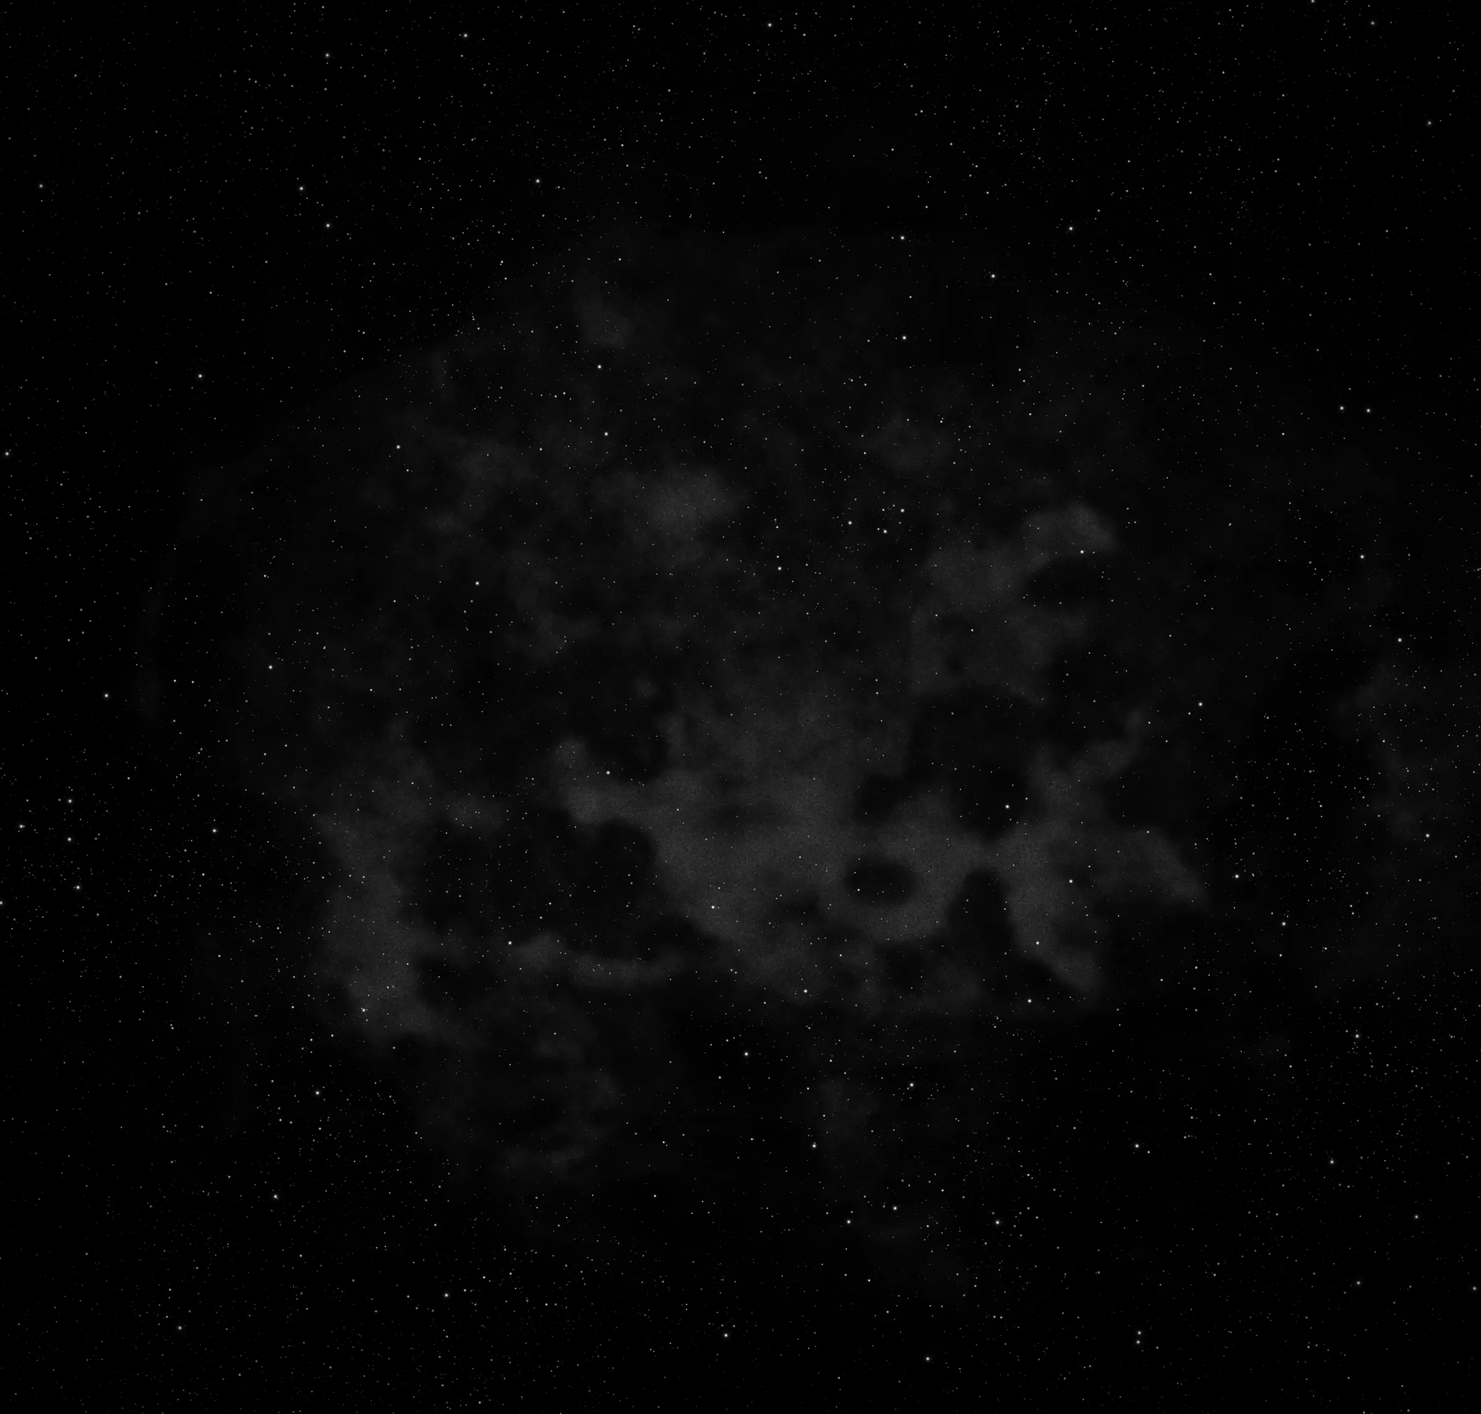
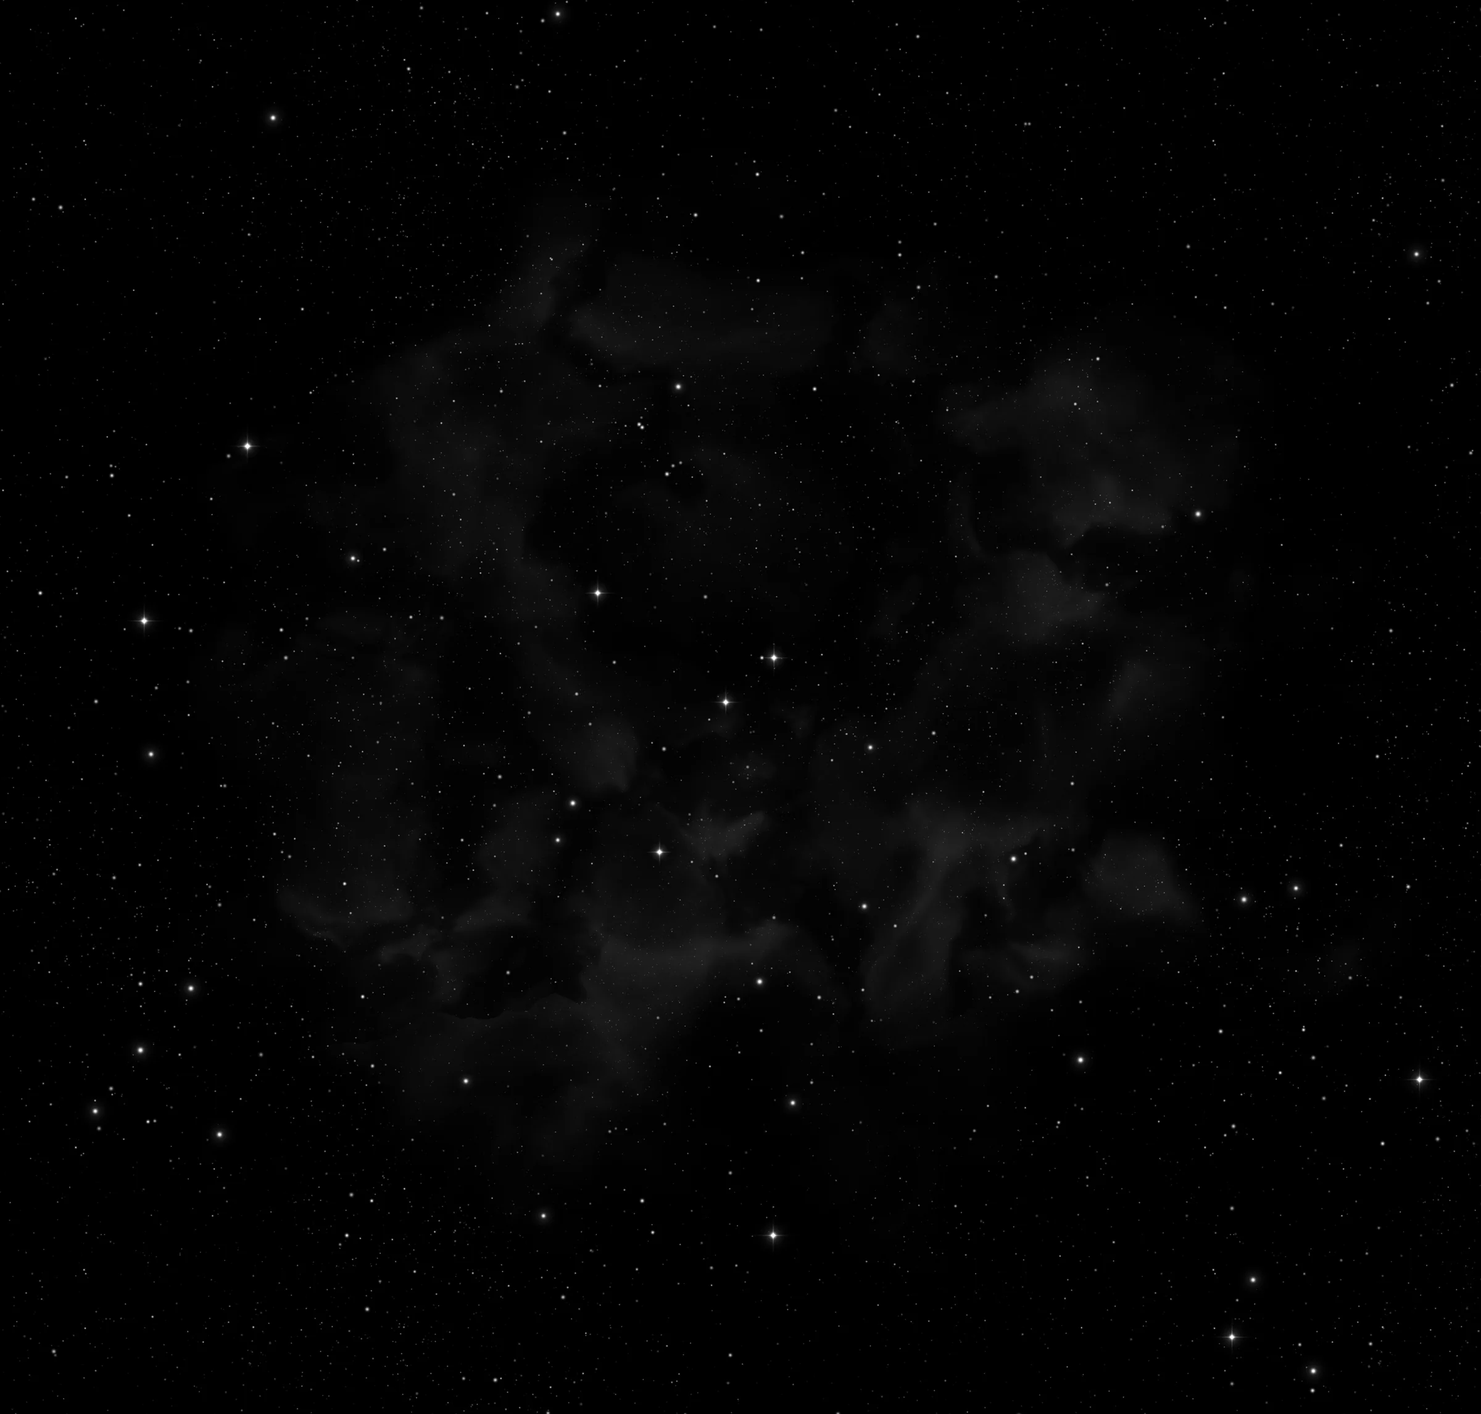
Inner pages: the space in three depths, nebula and stars redrawn (#151)
Owner's requests, 13 Nov 2026. The space behind inner pages is three pictures (nebula, far stars, near stars) that slide a little against each other with the pointer and the scroll; the nebula and stars are redrawn finer and fainter. Reduced motion and no JavaScript keep the still picture. The homepage is not touched.

diff --git a/assets/site.js b/assets/site.js
@@ -944,3 +944,52 @@
     });
   }
 })();
+
+/* The space behind inner pages, in three depths (owner, 13 Nov 2026): the cloud far off, then
+   two fields of stars. They slide a little against each other with the pointer and as the
+   page scrolls, so the ground has depth. Not under reduced motion: theme.css then keeps the
+   still picture. */
+(function () {
+  if (!window.matchMedia || window.matchMedia("(prefers-reduced-motion: reduce)").matches) return;
+  if (!document.body || !window.requestAnimationFrame) return;
+  var box = document.createElement("div");
+  box.className = "space";
+  box.setAttribute("aria-hidden", "true");
+  box.innerHTML = '<i class="space__cloud"></i><i class="space__far"></i><i class="space__near"></i>';
+  document.body.insertBefore(box, document.body.firstChild);
+  document.documentElement.classList.add("has-space");
+  var cloud = box.children[0], far = box.children[1], near = box.children[2];
+  var px = 0, py = 0, tx = 0, ty = 0, queued = false;
+
+  function tileOf(el, name) {
+    return parseFloat(getComputedStyle(box).getPropertyValue(name)) || 1000;
+  }
+  var tFar = tileOf(far, "--t-far"), tNear = tileOf(near, "--t-near");
+
+  function wrap(v, t) { return ((v % t) + t) % t; }
+
+  function draw() {
+    queued = false;
+    px += (tx - px) * 0.06;
+    py += (ty - py) * 0.06;
+    var sy = window.scrollY || 0;
+    cloud.style.transform = "translate3d(" + (-px * 12).toFixed(2) + "px," + (-py * 10 - Math.min(sy * 0.02, 40)).toFixed(2) + "px,0)";
+    far.style.transform = "translate3d(" + (-px * 24).toFixed(2) + "px," + wrap(-py * 18 - sy * 0.05, tFar).toFixed(2) + "px,0)";
+    near.style.transform = "translate3d(" + (-px * 46).toFixed(2) + "px," + wrap(-py * 34 - sy * 0.11, tNear).toFixed(2) + "px,0)";
+    if (Math.abs(tx - px) > 0.001 || Math.abs(ty - py) > 0.001) ask();
+  }
+  function ask() {
+    if (!queued) { queued = true; requestAnimationFrame(draw); }
+  }
+  window.addEventListener("pointermove", function (e) {
+    if (e.pointerType === "touch") return;
+    tx = e.clientX / window.innerWidth * 2 - 1;
+    ty = e.clientY / window.innerHeight * 2 - 1;
+    ask();
+  }, { passive: true });
+  window.addEventListener("scroll", ask, { passive: true });
+  window.addEventListener("resize", function () {
+    tFar = tileOf(far, "--t-far"); tNear = tileOf(near, "--t-near"); ask();
+  });
+  draw();
+})();

diff --git a/assets/theme.css b/assets/theme.css
@@ -16,6 +16,16 @@ body{font-weight:350;letter-spacing:.003em}
 /* every inner page stands in space: black, faint grey cloud and fine stars, still
    (owner, 13 Nov 2026; drawn by tools/make_space.py). Not on the homepage. */
 body::before{content:"";position:fixed;inset:0;pointer-events:none;z-index:-1;background:#000 url("space.webp") center/cover no-repeat}
+/* with JavaScript and motion allowed, the same space in three depths (cloud, far stars, near
+   stars) that slide a little against each other with the pointer and the scroll (owner,
+   13 Nov 2026; assets/site.js). The still picture above is what is left otherwise. */
+.space{position:fixed;inset:0;z-index:-1;overflow:hidden;pointer-events:none;background:#000;--t-far:1100px;--t-near:1500px}
+.space i{position:absolute;display:block;will-change:transform;backface-visibility:hidden}
+.space__cloud{inset:-56px;background:url("space-cloud.webp") center/cover no-repeat}
+.space__far{left:-56px;right:-56px;top:calc(-1*var(--t-far));height:calc(100% + var(--t-far));background:url("space-stars-far.webp") 0 0/var(--t-far) var(--t-far) repeat}
+.space__near{left:-56px;right:-56px;top:calc(-1*var(--t-near));height:calc(100% + var(--t-near));background:url("space-stars-near.webp") 0 0/var(--t-near) var(--t-near) repeat}
+@media (max-width:760px){.space{--t-far:720px;--t-near:980px}}
+html.has-space body::before{display:none}
 h1,h2,h3,h4{font-weight:300}
 .page__title,.report__title,.section-title{font-weight:300!important;letter-spacing:-.038em!important}
 .page__body h2,.page h2{font-weight:400;letter-spacing:-.02em}

diff --git a/tools/make_space.py b/tools/make_space.py
@@ -1,10 +1,14 @@
-"""Draws assets/space.webp, the ground of every inner page: black space with a grey cloud
-and fine stars (owner's request, 13 Nov 2026).
+"""Draws the space behind every inner page (owner's requests, 13 Nov 2026): a grey nebula
+and stars on black, in three depths that assets/site.js slides against each other.
 
-The cloud's shapes come from tools/space_cloud.png, a small map of the cloud in the owner's
-reference (brightness times four). This script enlarges it, gives it back the edges and
-fine structure the small map cannot hold, and scatters the stars. Run by hand; the result
-is committed.
+    assets/space-cloud.webp        the nebula, far off (with the faintest star dust in it)
+    assets/space-stars-far.webp    far stars, a clear square that repeats without a seam
+    assets/space-stars-near.webp   near stars, the same, with the few bright ones
+    assets/space.webp              the three together, still: reduced motion and no JavaScript
+
+The nebula's broad shape comes from tools/space_cloud.png, a small map of the cloud in the
+owner's reference (brightness times four); everything finer is drawn here. Run by hand; the
+results are committed.
 
     python3 tools/make_space.py
 """
@@ -14,21 +18,28 @@ import numpy as np
 from PIL import Image, ImageFilter
 
 HERE = Path(__file__).resolve().parent
-OUT = HERE.parent / "assets" / "space.webp"
+ASSETS = HERE.parent / "assets"
 W, H = 2400, 2292
+T = 2048
 rng = np.random.default_rng(20261113)
 
 
-def noise(cell, octaves=4, fall=0.55):
-    total = np.zeros((H, W), np.float32)
-    amp, norm = 1.0, 0.0
+def lattice(w, h, cell, periodic=False):
+    gw, gh = max(2, round(w / cell)), max(2, round(h / cell))
+    g = rng.random((gh, gw)).astype(np.float32)
+    if periodic:
+        big = Image.fromarray((np.tile(g, (3, 3)) * 255).astype(np.uint8)).resize((w * 3, h * 3), Image.BICUBIC)
+        return np.asarray(big.crop((w, h, w * 2, h * 2)), np.float32) / 255
+    return np.asarray(Image.fromarray((g * 255).astype(np.uint8)).resize((w, h), Image.BICUBIC), np.float32) / 255
+
+
+def fbm(w, h, cell, octaves=6, fall=0.52, periodic=False):
+    total, amp, norm = np.zeros((h, w), np.float32), 1.0, 0.0
     for _ in range(octaves):
-        gw, gh = max(2, W // cell + 2), max(2, H // cell + 2)
-        grid = Image.fromarray((rng.random((gh, gw)) * 255).astype(np.uint8))
-        total += np.asarray(grid.resize((W, H), Image.BICUBIC), np.float32) / 255 * amp
+        total += lattice(w, h, cell, periodic) * amp
         norm += amp
         amp *= fall
-        cell = max(2, cell // 2)
+        cell = max(3, cell / 2)
     return total / norm
 
 
@@ -37,60 +48,129 @@ def smooth(x, lo, hi):
     return t * t * (3 - 2 * t)
 
 
-def blur(a, r):
-    return np.asarray(Image.fromarray(np.clip(a, 0, 255).astype(np.uint8)).filter(ImageFilter.GaussianBlur(r)), np.float32)
+def blur(a, r, scale=1.0):
+    im = Image.fromarray(np.clip(a * scale, 0, 255).astype(np.uint8)).filter(ImageFilter.GaussianBlur(r))
+    return np.asarray(im, np.float32) / scale
 
 
-# --- cloud -------------------------------------------------------------------------------
-src = Image.open(HERE / "space_cloud.png").convert("L").resize((W, H), Image.BICUBIC)
-sharp = blur(np.asarray(src, np.float32), 3)
-soft = blur(sharp, 60)
-# towards the edges the map is only the rim of the cloud: let it dissolve there
+def sample(a, x, y):
+    """`a` read at the (fractional) places x, y; black outside."""
+    h, w = a.shape
+    x0, y0 = np.floor(x).astype(np.int32), np.floor(y).astype(np.int32)
+    fx, fy = x - x0, y - y0
+    out = np.zeros_like(x, dtype=np.float32)
+    for dy, wy in ((0, 1 - fy), (1, fy)):
+        for dx, wx in ((0, 1 - fx), (1, fx)):
+            xi, yi = x0 + dx, y0 + dy
+            ok = (xi >= 0) & (xi < w) & (yi >= 0) & (yi < h)
+            out += np.where(ok, a[np.clip(yi, 0, h - 1), np.clip(xi, 0, w - 1)], 0) * wx * wy
+    return out
+
+
+def save(name, img, alpha=None, quality=86):
+    p = ASSETS / name
+    g = Image.fromarray(np.clip(img, 0, 255).astype(np.uint8))
+    if alpha is None:
+        Image.merge("RGB", [g] * 3).save(p, "WEBP", quality=quality, method=6)
+    else:
+        a = Image.fromarray(np.clip(alpha, 0, 255).astype(np.uint8))
+        Image.merge("RGBA", [g, g, g, a]).save(p, "WEBP", quality=quality, alpha_quality=92, method=6, exact=True)
+    print(p.name, p.stat().st_size // 1024, "KB")
+
+
+# --- nebula ------------------------------------------------------------------------------
 yy, xx = np.mgrid[0:H, 0:W].astype(np.float32)
-rad = np.hypot((xx - W * 0.5) / (W * 0.5), (yy - H * 0.52) / (H * 0.5)) + (noise(300, 3) - 0.5) * 0.5
-edge = smooth(rad, 0.70, 1.05)
-cloud = (sharp * (1 - edge) + soft * edge * 0.8) / 4
+src = Image.open(HERE / "space_cloud.png").convert("L").resize((W, H), Image.BICUBIC)
+base = blur(np.asarray(src, np.float32), 9) / 4 / 26.0        # 0..1, the reference's masses
 
-# crisper holes: push the mid greys apart, then eat the edges with fine noise
-c = cloud / 27.0
-c = np.clip(c + (noise(34, 4) - 0.5) * 0.30 * smooth(c, 0.05, 0.5), 0, 1.2)
-c = 0.35 * c + 0.65 * smooth(c, 0.16, 0.74) * np.maximum(c, 0.35)
-# wisps inside the cloud, and a fine speckle (blurred, so it is powder and not static)
-c *= 0.78 + 0.44 * noise(90, 5)
-speck = blur(rng.random((H, W), dtype=np.float32) * 255, 0.7) / 255
-c *= 0.80 + 0.40 * (speck - 0.5) * 2.4 + 0.20
-img = c * 48.0
+# bend the masses so no edge is a smooth blob: one broad warp, one fine
+wx, wy = fbm(W, H, 520, 5) - 0.5, fbm(W, H, 520, 5) - 0.5
+vx, vy = fbm(W, H, 110, 4) - 0.5, fbm(W, H, 110, 4) - 0.5
+X, Y = xx + wx * 260 + vx * 70, yy + wy * 260 + vy * 70
+mass = sample(base, X, Y)
+# it dissolves towards the edges of the picture
+rad = np.hypot((xx - W * 0.5) / (W * 0.5), (yy - H * 0.52) / (H * 0.5)) + (fbm(W, H, 320, 3) - 0.5) * 0.6
+mass *= 1 - smooth(rad, 0.72, 1.12)
+
+# gas: fractal detail read through the same warp, so the wisps follow the masses
+detail = sample(fbm(W, H, 300, 7, 0.56), X, Y)
+ridge = 1 - np.abs(sample(fbm(W, H, 420, 6, 0.55), X + 400, Y + 250) * 2 - 1)   # bright filaments
+lanes = 1 - np.abs(sample(fbm(W, H, 360, 6, 0.55), X - 300, Y + 600) * 2 - 1)   # dark dust lanes
+gas = smooth(mass, 0.06, 0.90) * (0.30 + 1.25 * smooth(detail, 0.30, 0.78))
+gas *= 0.70 + 0.75 * ridge ** 3
+gas *= 1 - 0.80 * smooth(lanes, 0.80, 0.97)
+gas = np.clip(gas, 0, 1.6) ** 1.25
+# light spreads a little inside the gas
+gas = 0.80 * gas + 0.30 * blur(gas, 28, 150) + 0.12 * blur(gas, 110, 150)
+# the gas never passes 40 of 255 (#282828): the greyest text of the site (--ink-3) still reads
+# on it at 4.5 to 1
+neb = 40.0 * np.tanh(gas * 34.0 / 40.0)
+
+# unresolved stars inside the gas, the faintest dust
+dust = np.zeros((H, W), np.float32)
+n = 60000
+ys, xs = rng.integers(0, H, n), rng.integers(0, W, n)
+keep = rng.random(n) < np.clip(gas[ys, xs] * 1.1 + 0.04, 0, 1)
+np.maximum.at(dust, (ys[keep], xs[keep]), (10 + 70 * rng.random(keep.sum()) ** 3).astype(np.float32))
+neb = neb + blur(dust, 0.6, 2.0) * 1.6
+
+vig = 1 - 0.40 * smooth(np.hypot((xx - W / 2) / (W / 2), (yy - H / 2) / (H / 2)), 0.72, 1.35)
+neb *= vig
+# a breath of grain, so the dark gradients do not band
+neb += (rng.random((H, W), dtype=np.float32) - 0.5) * 1.4
+save("space-cloud.webp", neb, quality=88)
+
 
 # --- stars -------------------------------------------------------------------------------
-dens = 0.35 + 0.65 * smooth(noise(420, 3), 0.3, 0.75)
-dens *= 0.75 + 0.5 * np.clip(c, 0, 1)
-stars = np.zeros((H + 40, W + 40), np.float32)
-
-
-def stamp(n, sigma, lo, hi, halo=0.0):
-    k = int(max(2, np.ceil(sigma * 3 if not halo else 16)))
+def kernel(sigma, halo=0.0, spike=0.0):
+    k = int(np.ceil(sigma * 3.2)) if not (halo or spike) else 30
     ax = np.arange(-k, k + 1, dtype=np.float32)
-    d2 = ax[:, None] ** 2 + ax[None, :] ** 2
-    kern = np.exp(-d2 / (2 * sigma * sigma)) + halo * np.exp(-d2 / (2 * 5.0 ** 2))
-    ys, xs = rng.integers(0, H, n * 3), rng.integers(0, W, n * 3)
-    keep = rng.random(n * 3) < dens[ys, xs]
-    ys, xs = ys[keep][:n], xs[keep][:n]
-    # most stars are dim, a few are bright
-    v = lo + (hi - lo) * rng.random(len(ys)) ** 2.2
-    for y, x, b in zip(ys, xs, v):
-        patch = stars[y + 20 - k:y + 21 + k, x + 20 - k:x + 21 + k]
-        np.maximum(patch, kern * b, out=patch)
+    dx, dy = ax[None, :], ax[:, None]
+    d2 = dx ** 2 + dy ** 2
+    kern = np.exp(-d2 / (2 * sigma * sigma))
+    if halo:
+        kern += halo * np.exp(-d2 / (2 * 7.0 ** 2)) + halo * 0.35 * np.exp(-np.sqrt(d2) / 9.0)
+    if spike:   # the glint a lens gives the brightest stars: four thin rays
+        ray = np.exp(-np.abs(dx) / 8.0) * np.exp(-dy ** 2 / (2 * 0.6 ** 2)) + np.exp(-np.abs(dy) / 8.0) * np.exp(-dx ** 2 / (2 * 0.6 ** 2))
+        kern += spike * ray
+    return np.clip(kern, 0, 1), k
 
 
-stamp(15000, 0.55, 26, 120)        # dust
-stamp(3600, 0.80, 80, 215)         # small stars
-stamp(520, 1.15, 150, 255)         # stars
-stamp(70, 1.6, 230, 255, 0.10)     # the few bright ones, with a breath of light
-img = np.maximum(img, stars[20:-20, 20:-20])
+def field(groups):
+    """A T by T square of stars that repeats without a seam; gathered here, sparse there."""
+    a = np.zeros((T, T), np.float32)
+    dens = 0.25 + 0.75 * smooth(fbm(T, T, 520, 4, periodic=True), 0.32, 0.70)
+    for count, sigma, lo, hi, power, halo, spike in groups:
+        ys, xs = rng.integers(0, T, count * 3), rng.integers(0, T, count * 3)
+        keep = rng.random(count * 3) < dens[ys, xs]
+        ys, xs = ys[keep][:count], xs[keep][:count]
+        v = lo + (hi - lo) * rng.random(len(ys)) ** power
+        for y, x, b in zip(ys, xs, v):
+            kern, k = kernel(sigma * (0.85 + 0.3 * rng.random()), halo, spike)
+            iy = (np.arange(y - k, y + k + 1) % T)[:, None]
+            ix = (np.arange(x - k, x + k + 1) % T)[None, :]
+            a[iy, ix] = np.maximum(a[iy, ix], kern * b)
+    return a
 
-# a little darker towards the corners, so the page's edges and the header sit on black
-img *= 1 - 0.35 * smooth(np.hypot((xx - W / 2) / (W / 2), (yy - H / 2) / (H / 2)), 0.75, 1.35)
 
-out = np.clip(img, 0, 255).astype(np.uint8)
-Image.merge("RGB", [Image.fromarray(out)] * 3).save(OUT, "WEBP", quality=80, method=6)
-print(OUT, OUT.stat().st_size // 1024, "KB")
+#               count sigma  lo   hi  power halo spike
+far = field([(5200, 0.75, 22, 150, 3.0, 0, 0),
+             (900, 1.00, 70, 220, 2.4, 0, 0)])
+near = field([(420, 1.05, 60, 215, 2.6, 0, 0),
+              (150, 1.45, 140, 255, 1.8, 0, 0),
+              (26, 1.9, 225, 255, 1.0, 0.11, 0),
+              (9, 2.2, 255, 255, 1.0, 0.16, 0.42)])
+white = np.full((T, T), 255, np.float32)
+save("space-stars-far.webp", white, far)
+save("space-stars-near.webp", white, near)
+
+# --- the three together, still -----------------------------------------------------------
+def spread(a, size):
+    """The square as the page shows it (`size` picture pixels to a side), over the picture."""
+    im = Image.fromarray(np.clip(a, 0, 255).astype(np.uint8)).resize((size, size), Image.LANCZOS)
+    t = np.asarray(im, np.float32)
+    return np.tile(t, (H // size + 1, W // size + 1))[:H, :W]
+
+
+still = np.maximum(neb, np.maximum(spread(far, 1830), spread(near, 2500)))
+save("space.webp", still, quality=84)

diff --git a/DESIGN.md b/DESIGN.md
@@ -169,7 +169,7 @@ Source of truth: `assets/site.css` with `assets/theme.css` loaded after it (ever
 
 **Creative North Star: "Light on the Record"**
 
-A black page, white light and one typeface in light weights. The homepage is a horizon of light with the engraved horse forming out of its dust; every other page is type on black space: faint grey cloud and fine stars, still. Nothing is boxed: actions are words with a long arrow, filters are words, fields are a line, lists and tiles are separated by hairlines.
+A black page, white light and one typeface in light weights. The homepage is a horizon of light with the engraved horse forming out of its dust; every other page is type on black space: a faint grey cloud and fine stars, in three depths that slide a little against each other. Nothing is boxed: actions are words with a long arrow, filters are words, fields are a line, lists and tiles are separated by hairlines.
 
 Colour is withheld on purpose. The site is ink on black; vivid red and green carry one meaning only, a rise or a fall, in charts and on every figure that shows a move (see The Rise and Fall Rule). Seriousness comes from restraint, dated and sourced numbers, and bracketed placeholders wherever a real number does not yet exist.
 
@@ -179,7 +179,7 @@ Colour is withheld on purpose. The site is ink on black; vivid red and green car
 - No boxes: words, lines to write on and 1px hairlines. No shadows, square corners.
 - The horse is the only image: the brand mark in the header and footer, and the engraving on the homepage. Each group of the menu also has a picture drawn in fine lines (a globe, a mesh, a chart, buildings).
 - Red and green only for rises and falls (charts, and figures with a sign); errors are ink only.
-- Motion belongs to the homepage and to moving between pages; inner pages are still. Reduced motion is respected everywhere.
+- Motion belongs to the homepage and to moving between pages; on inner pages only the space behind the type moves, a little, with the pointer and the scroll. Reduced motion is respected everywhere.
 
 ## Colors
 
@@ -275,7 +275,7 @@ Tap targets are at least 44px (actions, filters, links, the menu button, footer 
 
 The system is flat. There are no drop shadows and no cards. A surface is set apart by a hairline, never by height, and a hover changes colour, not tone or position.
 
-Light is the one exception to flatness, and it is drawn, not cast: the homepage's horizon and its flare (`assets/home.js`), and on inner pages the space behind the type (`body::before`, fixed: `assets/space.webp`, black with a speckled grey cloud (about 18% grey at its brightest) and fine white stars, drawn by `tools/make_space.py` from `tools/space_cloud.png`, the cloud of the owner's reference; owner's request, 13 Nov 2026). It is a still picture, it never moves, and the homepage does not have it. The fixed header on inner pages has a black fade behind it once the page scrolls, so text does not run under the menu.
+Light is the one exception to flatness, and it is drawn, not cast: the homepage's horizon and its flare (`assets/home.js`), and on inner pages the space behind the type (`body::before`, fixed: `assets/space.webp`, black with a faint grey nebula (gas with folds, filaments and dark lanes; never brighter than #282828, so `--ink-3` text still reads on it) and white stars from many faint to a few bright, the brightest with a thin four-ray glint, drawn by `tools/make_space.py` from `tools/space_cloud.png`, the cloud of the owner's reference; owner's request, 13 Nov 2026). With JavaScript and motion allowed the same space is in three depths (owner's request, 13 Nov 2026; `.space` in `theme.css`, the last block of `assets/site.js`): the cloud far off (`space-cloud.webp`), far stars and near stars (`space-stars-far.webp`, `space-stars-near.webp`, squares that repeat without a seam). The pointer shifts them by up to 12, 24 and 46px and the scroll by 2%, 5% and 11% of the distance scrolled, so the near stars pass in front of the far ones; nothing moves by itself. Under reduced motion or without JavaScript the still picture stays. The homepage does not have it. The fixed header on inner pages has a black fade behind it once the page scrolls, so text does not run under the menu.
 
 ### Named Rules
 **The Flat Record Rule.** Nothing casts a shadow or sits in a box. A surface is distinguished by a hairline, and a hover changes colour, not height.

diff --git a/README.md b/README.md
@@ -5,7 +5,7 @@ tools, an economic calendar, a daily close note, a research library, interview p
 
 - `assets/`: stylesheets, scripts, self-hosted font, brand mark.
 - `assets/theme.css`: the new look (11 Nov 2026), loaded after `site.css` on every inner page: one dark theme, Geist, no boxes (DESIGN.md).
-- `assets/space.webp`, `tools/make_space.py`: the ground of every inner page (black space, faint cloud, stars; 13 Nov 2026), set in `theme.css`. The script draws the picture; run it by hand and commit the result.
+- `assets/space.webp`, `tools/make_space.py`: the ground of every inner page (black space, faint cloud, stars; 13 Nov 2026), set in `theme.css`. `assets/space-cloud.webp`, `space-stars-far.webp` and `space-stars-near.webp` are the same space in three depths, which the last block of `assets/site.js` moves a little with the pointer and the scroll. The script draws all four; run it by hand and commit the results.
 - `assets/home.css`, `assets/home.js`: the homepage, which loads neither `site.css` nor `site.js`: a WebGL scene of light with full-screen sections over it.
 - `assets/fonts/geist-latin.woff2`: Geist (SIL OFL 1.1, `OFL-Geist.txt`).
 - `docs/gallop-frames/`: five engraved gallop poses supplied by the owner for a homepage idea that was not used.
